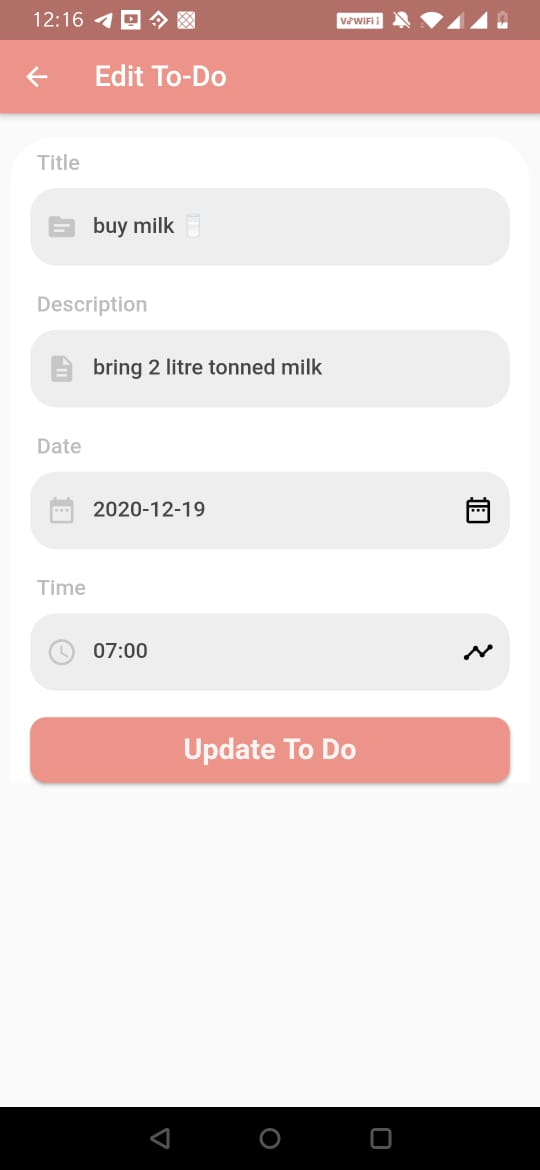
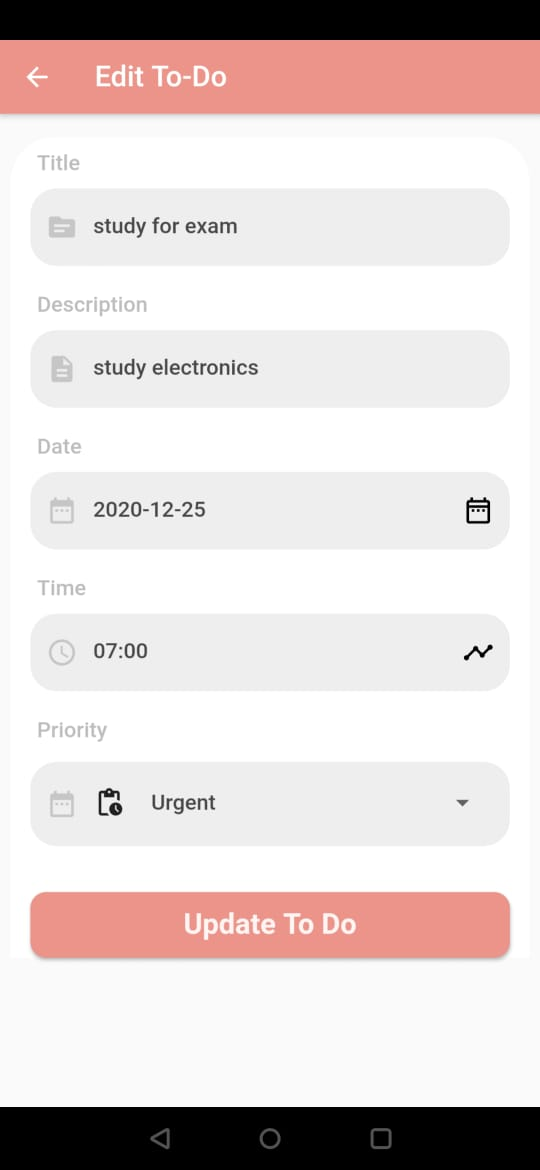
updating README.md

diff --git a/lib/utilities/home_page_widget_list.dart b/lib/utilities/home_page_widget_list.dart
@@ -3,7 +3,7 @@ import 'package:firebase_auth/firebase_auth.dart';
 import 'package:flutter/material.dart';
 import 'package:flutter_spinkit/flutter_spinkit.dart';
 import 'package:todo/utilities/todo.dart';
-import 'create_todo.dart';
+import '../screens/create_todo.dart';
 
 Color color = Color(0xffec9489);
 
@@ -38,7 +38,7 @@ List<Widget> home = [
                       Padding(
                         padding: const EdgeInsets.all(15.0),
                         child: Text(
-                          "There are no Completed Todo's Present",
+                          "There are no To-Do\'s Present",
                           style: TextStyle(
                               color: Colors.white,
                               fontWeight: FontWeight.w500,
@@ -208,7 +208,7 @@ List<Widget> home = [
                 Padding(
                   padding: const EdgeInsets.all(8.0),
                   child: Chip(
-                    label: Text("Complete To-Do's", style: TextStyle(
+                    label: Text("Completed To-Do's", style: TextStyle(
                         color: Colors.white,
                         fontSize: 24
                     ),),

diff --git a/ios/Runner/AppDelegate.swift b/ios/Runner/AppDelegate.swift
@@ -7,6 +7,9 @@ import Flutter
     _ application: UIApplication,
     didFinishLaunchingWithOptions launchOptions: [UIApplication.LaunchOptionsKey: Any]?
   ) -> Bool {
+    var flutter_native_splash = 1
+    UIApplication.shared.isStatusBarHidden = false
+
     GeneratedPluginRegistrant.register(with: self)
     return super.application(application, didFinishLaunchingWithOptions: launchOptions)
   }

diff --git a/lib/screens/home.dart b/lib/screens/home.dart
@@ -9,7 +9,7 @@ import 'package:todo/screens/done-todo\'s.dart';
 import 'package:todo/screens/search.dart';
 import 'package:todo/screens/todo\'s.dart';
 import 'package:todo/screens/undone-todo\'s.dart';
-import 'home_page_widget_list.dart';
+import '../utilities/home_page_widget_list.dart';
 
 class Home extends StatefulWidget {
   @override

diff --git a/android/app/src/main/kotlin/com/mrigank/todo/MainActivity.kt b/android/app/src/main/kotlin/com/mrigank/todo/MainActivity.kt
@@ -2,5 +2,8 @@ package com.mrigank.todo
 
 import io.flutter.embedding.android.FlutterActivity
 
+import android.os.Build
+import android.view.ViewTreeObserver
+import android.view.WindowManager
 class MainActivity: FlutterActivity() {
 }

diff --git a/README.md b/README.md
@@ -1,20 +1,29 @@
 # To-Do Application
 ## Made with flutter and firebase
-
+#### App comes with CRUD functionality on To-Do, Google sign-in.
 ### Login Screen
 ![Login Screen](images/login.jpeg)
 
-### Home Screen
+### Home Screen (All Todos)
 ![Home Screen](images/home.jpeg)
+
+### Complete To-Do's
+![Complete To-Do Screen](images/complete.jpeg)
+
+### InComplete To-Do's
+![InComplete To-Do Screen](images/incomplete.jpeg)
 
 ### Create To-Do Screen
 ![Create ToDo Screen](images/create.jpeg)
 
 ### Todo-Edit Screen
-![Edit ToDo Screen](images/create.jpeg)
+![Edit ToDo Screen](images/edit.jpeg)
 
 ### Details of To-Do
 ![Details ofToDo](images/details.jpeg)
 
 ### Side Drawer With Various Functionality 
 ![SideDrawer](images/sidedrawer.jpeg)
+
+### Splash Screen
+![SplashScreen](images/splash.jpeg)
